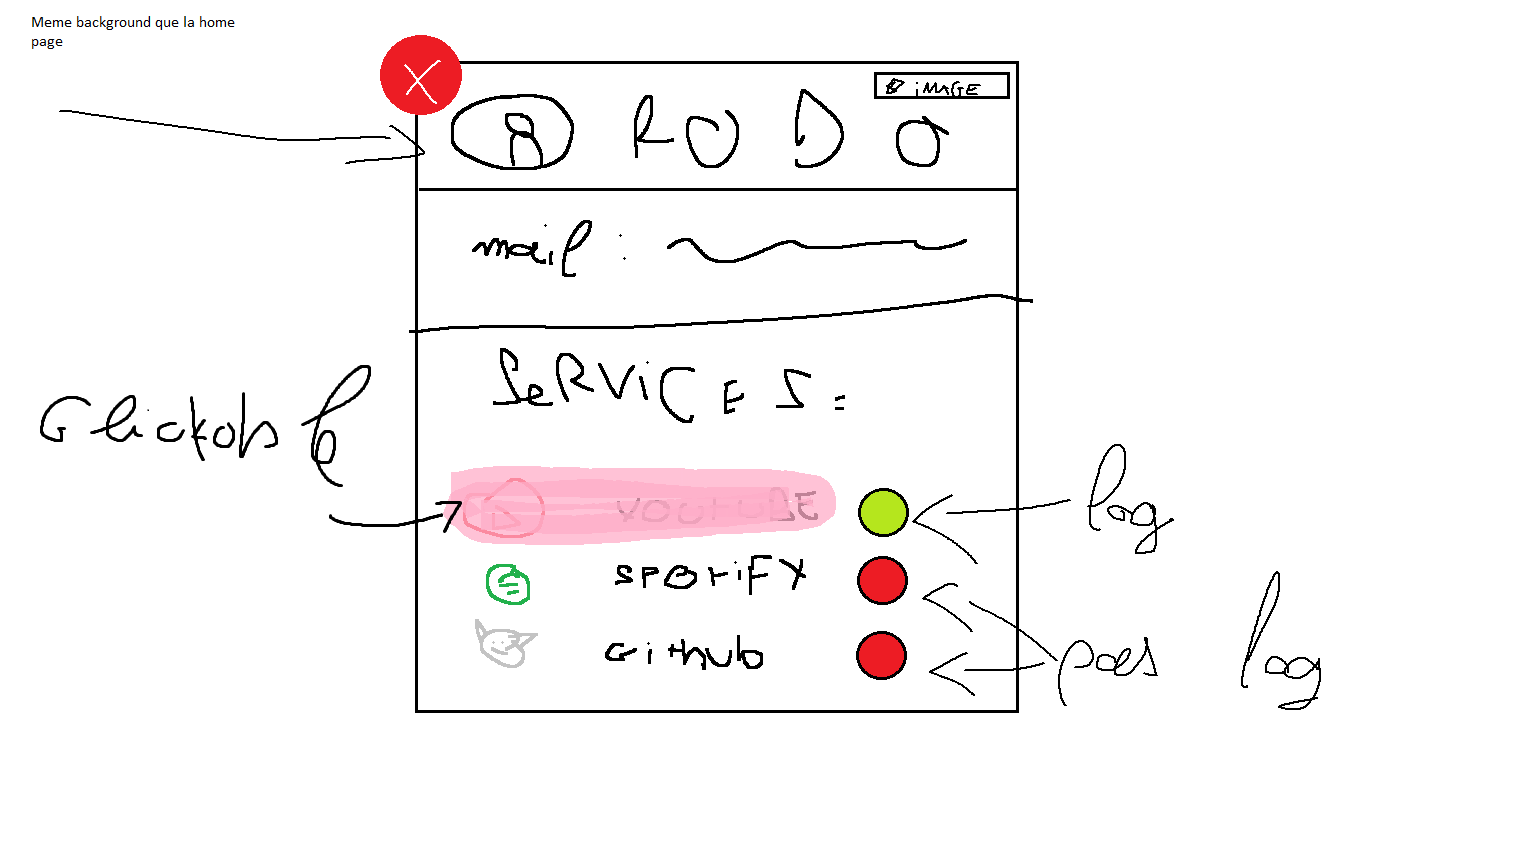
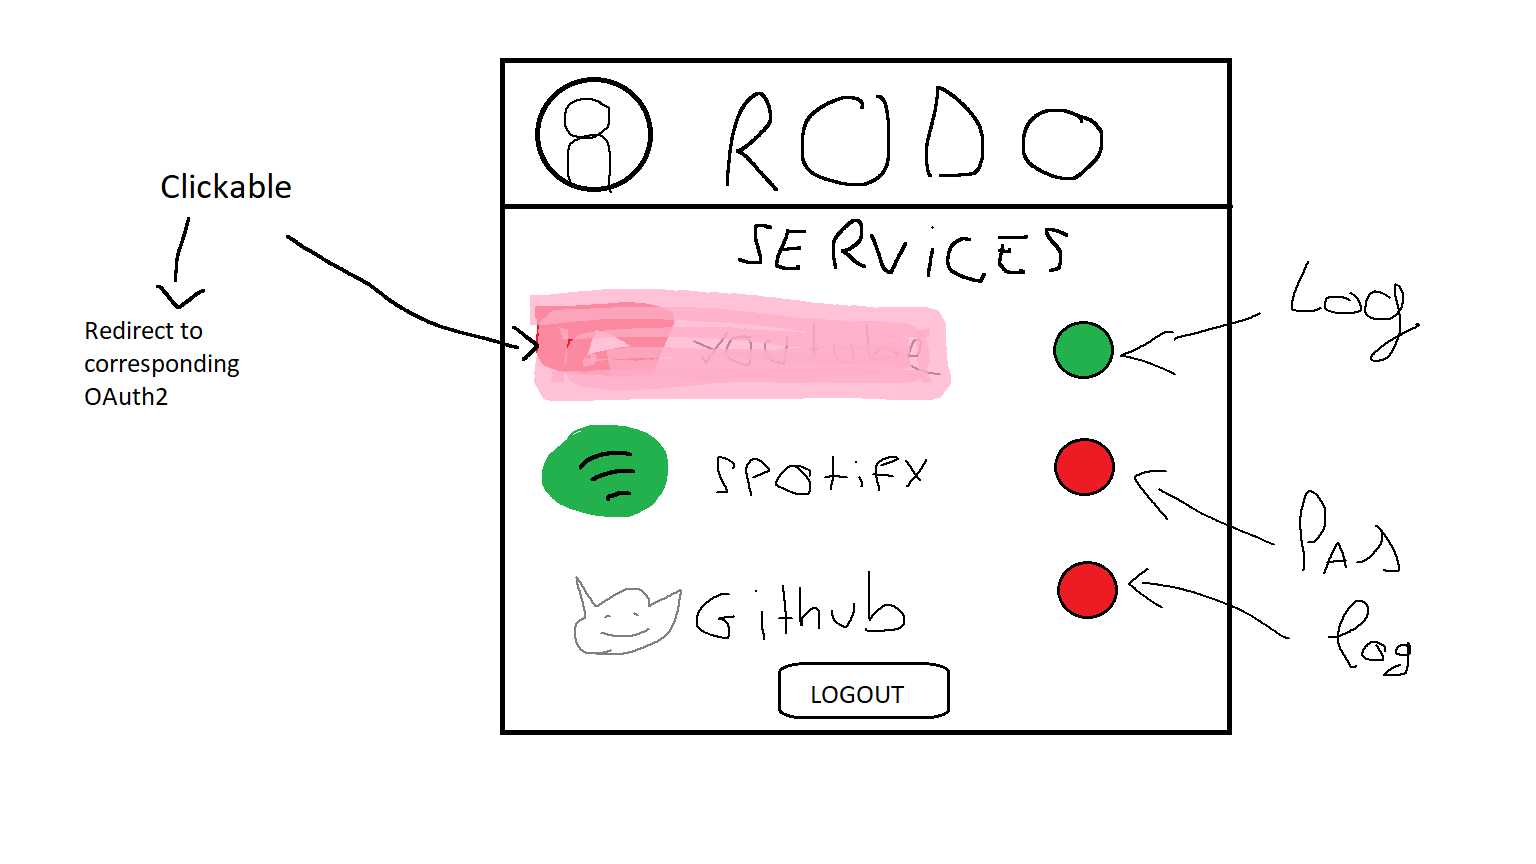
[Front] -> Profile Popup -> adding services list + working logout button

diff --git a/sources/front/src/components/Profile/ProfilePopup.js b/sources/front/src/components/Profile/ProfilePopup.js
@@ -1,42 +1,89 @@
 import './ProfilePopup.css';
 import React, { useState } from 'react';
+import { Link } from '@reach/router';
 import { makeStyles } from "@material-ui/core/styles";
 import { StylesProvider } from "@material-ui/styles";
-import { Dialog, DialogContent, DialogTitle, Fab } from '@material-ui/core';
+import { Dialog, DialogContent, DialogTitle, Fab, Button } from '@material-ui/core';
+import { List, ListItem, ListItemIcon, ListItemText, ListSubheader } from '@material-ui/core';
 import PersonIcon from '@material-ui/icons/Person';
+import iconYoutube from './../../assets/icons/youtube.png'
+import iconSpotify from './../../assets/icons/spotify.png'
+import iconGithub from './../../assets/icons/github.png'
+
 
 const useStyles = makeStyles((theme) => ({
+    // Dialog
+    dialogCard: {
+        position: 'absolute',
+        top: '20%'
+    },
     // Icons
     userIcon: {
         width: '6vh',
         height: '6vh',
         color: "darkgrey"
     },
-
+    // List
+    listContainer: {
+        width: '100%',
+        maxWidth: '50vh',
+      },
+    listHeader: {
+        fontSize: '3.5vh',
+        color: 'black',
+        marginBottom: '1.5vh',
+    },
+    serviceName: {
+        fontSize: '2.5vh',
+        marginLeft: '4vh',
+    },
+    // Buttons
+    logoutButton: {
+        position: 'absolute',
+        top: '90%',
+        fontSize: '1.5vh',
+        fontWeight: 'bold',
+        left: '45%',
+    }
 }));
 
 export default function ProfilePopup(props) {
     const classes = useStyles();
     const {openPopup, setOpenPopup, userName, coverImg} = props;
 
-    // Close Popup by clicking outside
+    // CLOSE POPUP BY CLICKING OUTSIDE
     const handleClose = () => {
         setOpenPopup(false);
-      };
+    };
+
+    // REDIRECT TO YOUTUBE OAUTH2
+    const loginYoutube = async () => {
+        alert('Youtube');
+    };
+
+    // REDIRECT TO SPOTIFY OAUTH2
+    const loginSpotify = async () => {
+        alert('Spotify');
+    };
+
+    // REDIRECT TO GITHUB OAUTH2
+    const loginGithub = async () => {
+        alert('Github');
+    };
+
     return (
         <StylesProvider injectFirst>
             <Dialog
                 open={openPopup}
                 onClose={handleClose}
                 fullWidth={true}
+                classes={{paper: classes.dialogCard}}
             >
                 {/* TOP BAR */}
                 <DialogTitle style={{ background: `url(${coverImg})`}}>
-                    <div className="header" >
-                        <Fab
-                            className="iconBtn"
-                        >
-                            <PersonIcon className={classes.userIcon} border={1}>
+                    <div className="headerDiv" >
+                        <Fab className="iconBtn">
+                            <PersonIcon className={classes.userIcon}>
                             </PersonIcon>
                         </Fab>
                         <h1 className="userName">{userName}</h1>
@@ -44,7 +91,57 @@ export default function ProfilePopup(props) {
                 </DialogTitle>
                 {/* CONTENT */}
                 <DialogContent dividers>
-                    <div>Content here</div>
+                    <div className="contentDiv">
+                        {/* SERVICES LIST */}
+                        <List
+                            className={classes.listContainer}
+                            subheader={
+                                <ListSubheader className={classes.listHeader}>
+                                Services
+                                </ListSubheader>
+                            }
+                        >
+                            <ListItem button onClick={() => loginYoutube()}>
+                                <ListItemIcon>
+                                    <img src={iconYoutube} />
+                                </ListItemIcon>
+                                <ListItemText
+                                    disableTypography
+                                    className={classes.serviceName}
+                                    primary="Youtube"
+                                />
+                            </ListItem>
+                            <ListItem button onClick={() => loginSpotify()}>
+                                <ListItemIcon>
+                                    <img src={iconSpotify} />
+                                </ListItemIcon>
+                                <ListItemText
+                                    disableTypography
+                                    className={classes.serviceName}
+                                    primary="Spotify"
+                                />
+                            </ListItem>
+                            <ListItem button onClick={() => loginGithub()}>
+                                <ListItemIcon>
+                                    <img src={iconGithub} />
+                                </ListItemIcon>
+                                <ListItemText
+                                    disableTypography
+                                    className={classes.serviceName}
+                                    primary="Github"
+                                />
+                            </ListItem>
+                        </List>
+                        {/* LOGOUT BUTTON */}
+                        <Button
+                            variant="contained"
+                            color="secondary"
+                            className={classes.logoutButton}
+                            component={Link} to={'/'}
+                        >
+                            LOGOUT
+                        </Button>
+                    </div>
                 </DialogContent>
             </Dialog>
         </StylesProvider>

diff --git a/sources/front/src/components/Profile/ProfilePopup.css b/sources/front/src/components/Profile/ProfilePopup.css
@@ -1,8 +1,8 @@
-.header {
+/* COVER */
+.headerDiv {
     display: flex;
     height: 8vh;
     overflow: visible;
-    /* margin: -2.5vh; */
 }
 
 .userName {
@@ -21,4 +21,10 @@
     margin-left: 0vh;
     margin-top: 1vh;
     background: white;
+}
+
+/* SERVICES LIST */
+.contentDiv {
+    height: 40vh;
+    display: flex;
 }

diff --git a/sources/front/src/components/Home/HomePage.js b/sources/front/src/components/Home/HomePage.js
@@ -68,6 +68,7 @@ const DraggableCard = ({ text, selected }) => {
     const destroyWidget = async () => {
             alert('vous me le bannez lui!');
     };
+
     return (
       <Draggable grid={[25, 25]} bounds="parent">
         <Card className={classes.card}>
